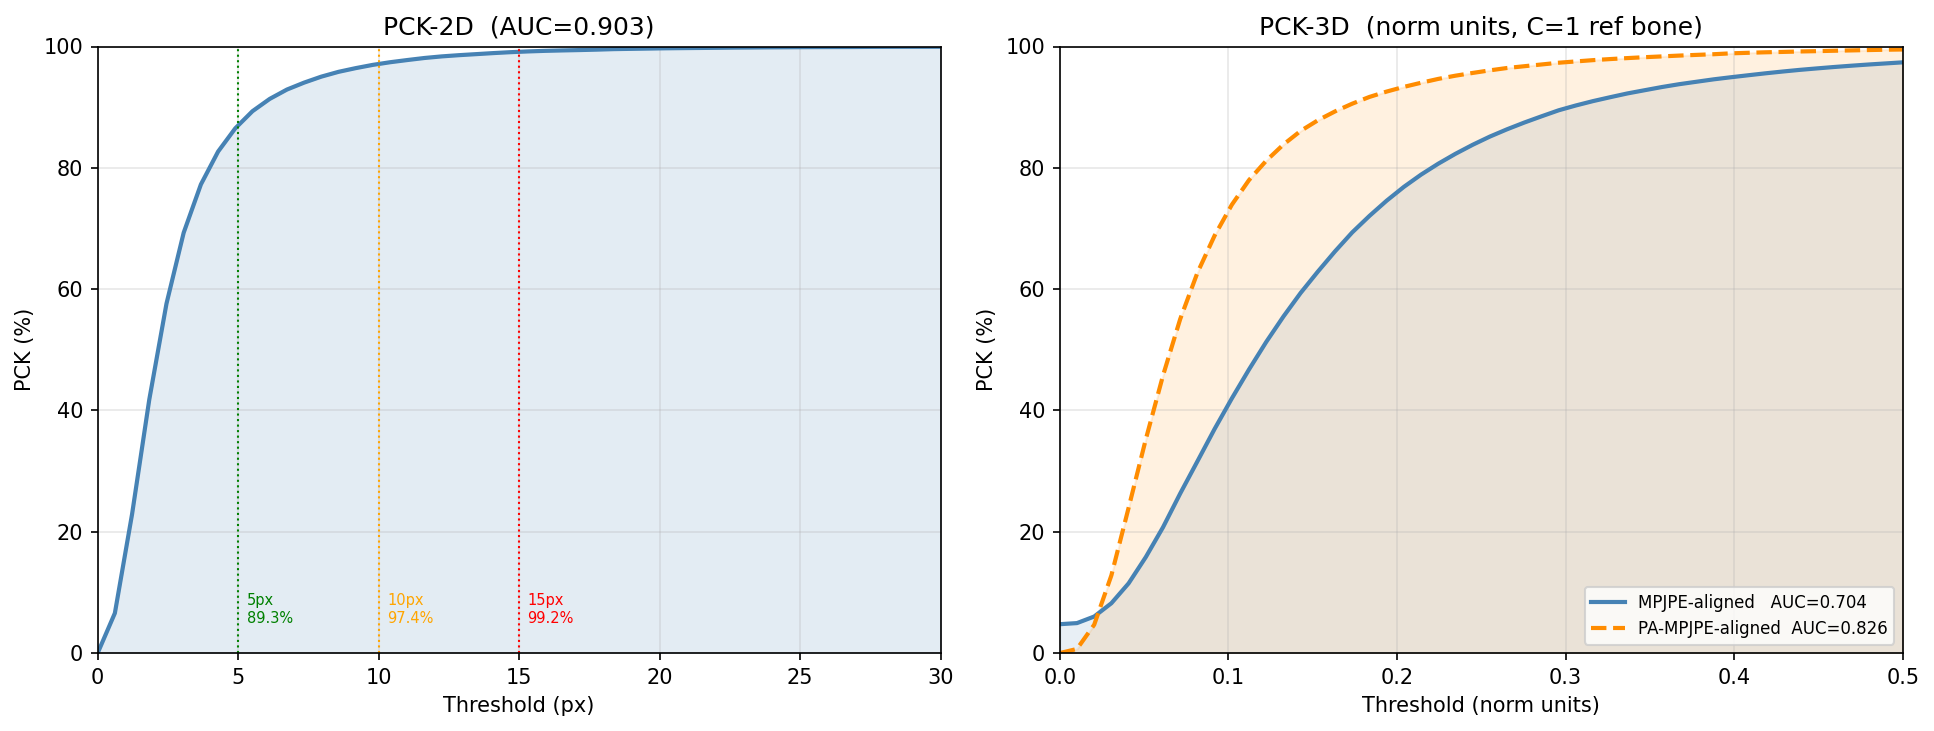
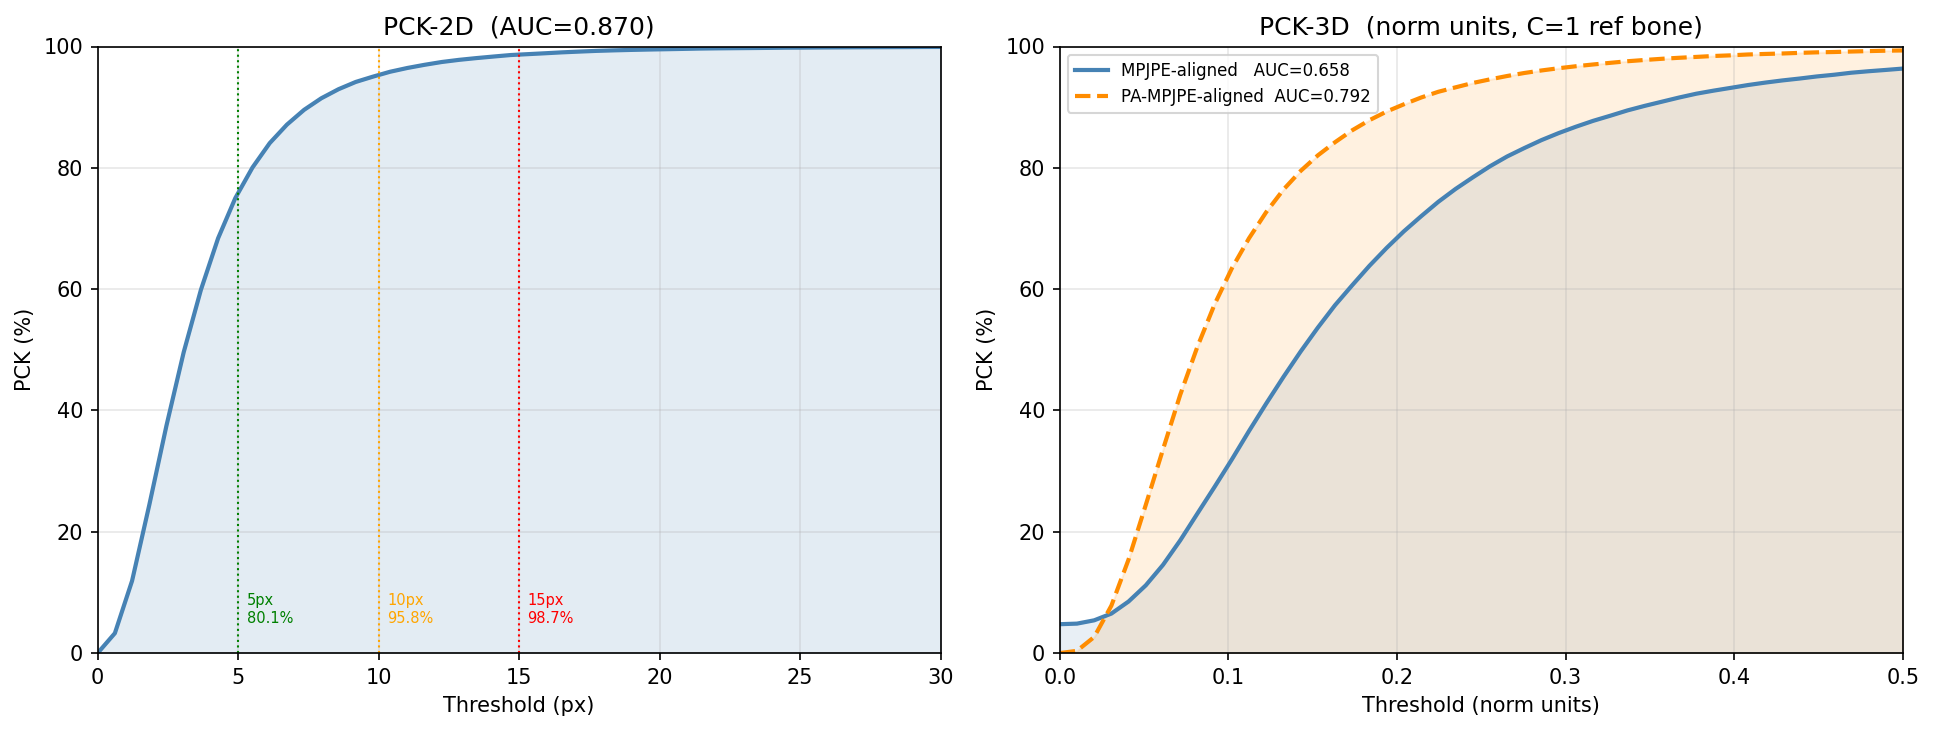
yep

Changed region(s): [[0.5584, 0.0602, 0.9928, 0.8728], [0.031, 0.0301, 0.3413, 0.8728], [0.8066, 0.7825, 0.9928, 0.9029]]

diff --git a/realtime.py b/realtime.py
@@ -1,0 +1,205 @@
+# -*- coding: utf-8 -*-
+"""
+realtime.py -- Live webcam hand pose estimation with sdf_best_model.pt
+=======================================================================
+Usage:
+    python realtime.py
+    python realtime.py --model sdf_best_model.pt --camera 0
+
+Controls:
+    Q or ESC  -- quit
+    S         -- save current frame to realtime_captures/
+"""
+
+import argparse
+import time
+from pathlib import Path
+
+import cv2
+import numpy as np
+import torch
+
+from model_sdf import SDFHandPoseNet, IMG_SIZE
+
+# ---------------------------------------------------------------------------
+# Skeleton
+# ---------------------------------------------------------------------------
+
+CONNECTIONS = [
+    [0,1],[1,2],[2,3],[3,4],
+    [0,5],[5,6],[6,7],[7,8],
+    [0,9],[9,10],[10,11],[11,12],
+    [0,13],[13,14],[14,15],[15,16],
+    [0,17],[17,18],[18,19],[19,20],
+]
+
+# BGR colors per joint (finger groups)
+JOINT_BGR = [
+    (200, 200, 200),  # 0  wrist
+    (0, 230, 0),      # 1-4  index   green
+    (0, 230, 0),
+    (0, 230, 0),
+    (0, 230, 0),
+    (255, 128, 0),    # 5-8  middle  blue
+    (255, 128, 0),
+    (255, 128, 0),
+    (255, 128, 0),
+    (0, 200, 255),    # 9-12  ring   yellow
+    (0, 200, 255),
+    (0, 200, 255),
+    (0, 200, 255),
+    (0, 100, 255),    # 13-16 pinky  orange
+    (0, 100, 255),
+    (0, 100, 255),
+    (0, 100, 255),
+    (255, 0, 230),    # 17-20 thumb  magenta
+    (255, 0, 230),
+    (255, 0, 230),
+    (180, 0, 230),
+]
+
+
+# ---------------------------------------------------------------------------
+# Preprocessing
+# ---------------------------------------------------------------------------
+
+def preprocess(frame_bgr: np.ndarray) -> tuple[torch.Tensor, tuple[int,int]]:
+    """
+    Centre-crop the webcam frame to a square, resize to IMG_SIZE x IMG_SIZE,
+    normalise to [0,1], return tensor (1,3,H,W) and the crop box (x0,y0).
+    """
+    h, w = frame_bgr.shape[:2]
+    side  = min(h, w)
+    x0    = (w - side) // 2
+    y0    = (h - side) // 2
+    crop  = frame_bgr[y0:y0+side, x0:x0+side]
+    resized = cv2.resize(crop, (IMG_SIZE, IMG_SIZE))
+    rgb   = cv2.cvtColor(resized, cv2.COLOR_BGR2RGB).astype(np.float32) / 255.0
+    tensor = torch.from_numpy(rgb).permute(2, 0, 1).unsqueeze(0)  # (1,3,H,W)
+    return tensor, (x0, y0, side)
+
+
+# ---------------------------------------------------------------------------
+# Drawing
+# ---------------------------------------------------------------------------
+
+def draw_skeleton(canvas: np.ndarray, kpts_px: np.ndarray,
+                  scale_x: float, scale_y: float,
+                  offset_x: int, offset_y: int) -> np.ndarray:
+    """
+    Draw the hand skeleton onto `canvas`.
+    kpts_px is (21,2) in IMG_SIZE pixel space; we map back to canvas coords.
+    """
+    def to_canvas(pt):
+        x = int(pt[0] * scale_x) + offset_x
+        y = int(pt[1] * scale_y) + offset_y
+        return x, y
+
+    # Bones
+    for s, e in CONNECTIONS:
+        p1 = to_canvas(kpts_px[s])
+        p2 = to_canvas(kpts_px[e])
+        color = JOINT_BGR[s]
+        cv2.line(canvas, p1, p2, color, 2, cv2.LINE_AA)
+
+    # Joints
+    for k, pt in enumerate(kpts_px):
+        c = to_canvas(pt)
+        cv2.circle(canvas, c, 4, JOINT_BGR[k], -1, cv2.LINE_AA)
+        cv2.circle(canvas, c, 4, (0, 0, 0), 1, cv2.LINE_AA)  # thin black outline
+
+    return canvas
+
+
+# ---------------------------------------------------------------------------
+# Main
+# ---------------------------------------------------------------------------
+
+def main():
+    parser = argparse.ArgumentParser()
+    parser.add_argument('--model',  type=str, default='sdf_best_model.pt')
+    parser.add_argument('--camera', type=int, default=0,
+                        help='Webcam device index (default 0)')
+    args = parser.parse_args()
+
+    device = torch.device('cuda' if torch.cuda.is_available() else 'cpu')
+    print(f'Device : {device}')
+
+    # Load model
+    print(f'Loading {args.model} ...')
+    model = SDFHandPoseNet(num_kpts=21, pretrained_backbone=False)
+    ckpt  = torch.load(args.model, map_location=device, weights_only=False)
+    model.load_state_dict(ckpt['model_state'])
+    model = model.to(device).eval()
+    print('Model ready.\n')
+
+    # Warmup
+    with torch.no_grad():
+        model(torch.zeros(1, 3, IMG_SIZE, IMG_SIZE, device=device))
+
+    cap = cv2.VideoCapture(args.camera)
+    if not cap.isOpened():
+        raise RuntimeError(f'Cannot open camera {args.camera}')
+
+    save_dir = Path('realtime_captures')
+    save_dir.mkdir(exist_ok=True)
+
+    fps_buf = []
+    print('Press Q or ESC to quit, S to save a frame.')
+
+    while True:
+        ret, frame = cap.read()
+        if not ret:
+            print('Camera read failed.')
+            break
+
+        t0 = time.perf_counter()
+
+        # -- Inference --
+        inp, (x0, y0, side) = preprocess(frame)
+        inp = inp.to(device)
+
+        with torch.no_grad():
+            pose_2d, _, _, _ = model(inp)
+
+        kpts = pose_2d[0].cpu().numpy()  # (21, 2) in IMG_SIZE space
+
+        # -- Map keypoints back to original frame --
+        scale_x = side / IMG_SIZE
+        scale_y = side / IMG_SIZE
+
+        canvas = frame.copy()
+        draw_skeleton(canvas, kpts, scale_x, scale_y, x0, y0)
+
+        # -- FPS --
+        dt = time.perf_counter() - t0
+        fps_buf.append(1.0 / dt)
+        if len(fps_buf) > 30:
+            fps_buf.pop(0)
+        fps = np.mean(fps_buf)
+
+        # -- Overlay text --
+        cv2.putText(canvas, f'FPS: {fps:.1f}', (10, 28),
+                    cv2.FONT_HERSHEY_SIMPLEX, 0.8, (0, 255, 0), 2, cv2.LINE_AA)
+        cv2.putText(canvas, 'Q/ESC=quit  S=save', (10, 58),
+                    cv2.FONT_HERSHEY_SIMPLEX, 0.55, (200, 200, 200), 1, cv2.LINE_AA)
+
+        # Draw crop boundary
+        cv2.rectangle(canvas, (x0, y0), (x0+side, y0+side), (80, 80, 80), 1)
+
+        cv2.imshow('Hand Pose (SDF) -- realtime', canvas)
+
+        key = cv2.waitKey(1) & 0xFF
+        if key in (ord('q'), 27):   # Q or ESC
+            break
+        if key == ord('s'):
+            fname = save_dir / f'capture_{int(time.time())}.png'
+            cv2.imwrite(str(fname), canvas)
+            print(f'Saved {fname}')
+
+    cap.release()
+    cv2.destroyAllWindows()
+
+
+if __name__ == '__main__':
+    main()

diff --git a/visualize.py b/visualize.py
@@ -24,8 +24,9 @@ import matplotlib
 matplotlib.use('Agg')
 import matplotlib.pyplot as plt
 
-from model   import SingleViewModel, reconstruct_3d_from_25d
-from dataset import FreiHANDDataset, IMG_SIZE
+from model     import SingleViewModel, reconstruct_3d_from_25d
+from model_sdf import SDFHandPoseNet
+from dataset   import FreiHANDDataset, IMG_SIZE
 
 CONNECTIONS = [
     [0,1],[1,2],[2,3],[3,4],
@@ -108,7 +109,10 @@ def make_hand_lineset(joints, connections, color, o3d):
 def main():
     parser = argparse.ArgumentParser()
     parser.add_argument('--model',      type=str, required=True,
-                        help='Path to checkpoint (best_model.pt)')
+                        help='Path to checkpoint (best_model.pt or sdf_best_model.pt)')
+    parser.add_argument('--model-type', type=str, default='heatmap',
+                        choices=['heatmap', 'sdf'],
+                        help='heatmap = SingleViewModel, sdf = SDFHandPoseNet')
     parser.add_argument('--data-root',  type=str, default='/home/kghasemz/projects/def-vislearn/kghasemz/dataset')
     parser.add_argument('--split',      type=str, default='val',
                         choices=['train', 'val'])
@@ -124,11 +128,14 @@ def main():
     device = torch.device('cuda' if torch.cuda.is_available() else 'cpu')
 
     # ── Load model ────────────────────────────────────────────────────────
-    model = SingleViewModel(num_kpts=21)
-    ckpt  = torch.load(args.model, map_location=device)
+    if args.model_type == 'sdf':
+        model = SDFHandPoseNet(num_kpts=21, pretrained_backbone=False)
+    else:
+        model = SingleViewModel(num_kpts=21)
+    ckpt  = torch.load(args.model, map_location=device, weights_only=False)
     model.load_state_dict(ckpt['model_state'])
     model = model.to(device).eval()
-    print(f'Loaded model from {args.model}')
+    print(f'Loaded {args.model_type} model from {args.model}')
     if 'epoch' in ckpt:
         print(f'  Epoch {ckpt["epoch"]}  |  best MPJPE {ckpt.get("best_mpjpe", "?"):.4f}')
 
@@ -192,13 +199,16 @@ def main():
                                     W_im, H_im,
                                     line_thickness=1, joint_radius=2)
 
-        fig, axes = plt.subplots(1, 2, figsize=(8, 4))
-        axes[0].imshow(vis_pred)
-        axes[0].set_title('Predicted  (green / blue)', fontsize=9)
+        fig, axes = plt.subplots(1, 3, figsize=(12, 4))
+        axes[0].imshow(img_np)
+        axes[0].set_title('Input', fontsize=9)
         axes[0].axis('off')
-        axes[1].imshow(vis_gt)
-        axes[1].set_title('GT  (orange / red)', fontsize=9)
+        axes[1].imshow(vis_pred)
+        axes[1].set_title('Predicted  (green / blue)', fontsize=9)
         axes[1].axis('off')
+        axes[2].imshow(vis_gt)
+        axes[2].set_title('GT  (orange / red)', fontsize=9)
+        axes[2].axis('off')
 
         e2d = np.linalg.norm(pred_2d_px - gt_2d, axis=-1).mean()
         e3d = np.linalg.norm(p3 - g3, axis=-1).mean()
@@ -253,6 +263,7 @@ def main():
         # instead of trying to read it from PLY (write_line_set uses a non-standard
         # 'edge' element that Open3D and other viewers silently ignore).
         viewer_lines = [
+            '# -*- coding: utf-8 -*-',
             'import argparse, numpy as np, open3d as o3d',
             'CONNECTIONS = [[0,1],[1,2],[2,3],[3,4],[0,5],[5,6],[6,7],[7,8],',
             '               [0,9],[9,10],[10,11],[11,12],[0,13],[13,14],[14,15],[15,16],',
@@ -278,7 +289,7 @@ def main():
             f'    window_name=f"3D Pose — sample {{i}}",',
             '    width=1024, height=768)',
         ]
-        with open(str(viewer_path), 'w') as f:
+        with open(str(viewer_path), 'w', encoding='utf-8') as f:
             f.write('\n'.join(viewer_lines) + '\n')
         print(f'\nTo view interactively:')
         print(f'  cd {out_dir} && python3 view_3d.py --sample {args.start_idx}')

diff --git a/evaluate.py b/evaluate.py
@@ -279,7 +279,7 @@ def main():
         model = SDFHandPoseNet(num_kpts=21, pretrained_backbone=False)
     else:
         model = SingleViewModel(num_kpts=21)
-    ckpt  = torch.load(args.model, map_location=device)
+    ckpt  = torch.load(args.model, map_location=device, weights_only=False)
     model.load_state_dict(ckpt['model_state'])
     model = model.to(device).eval()
 
